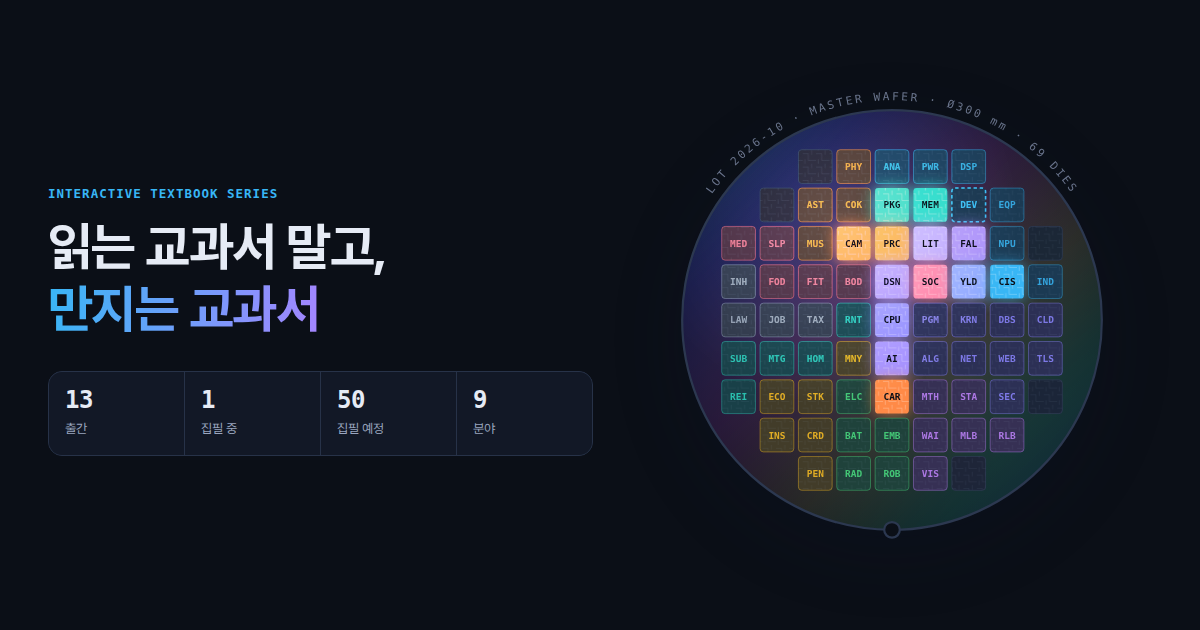
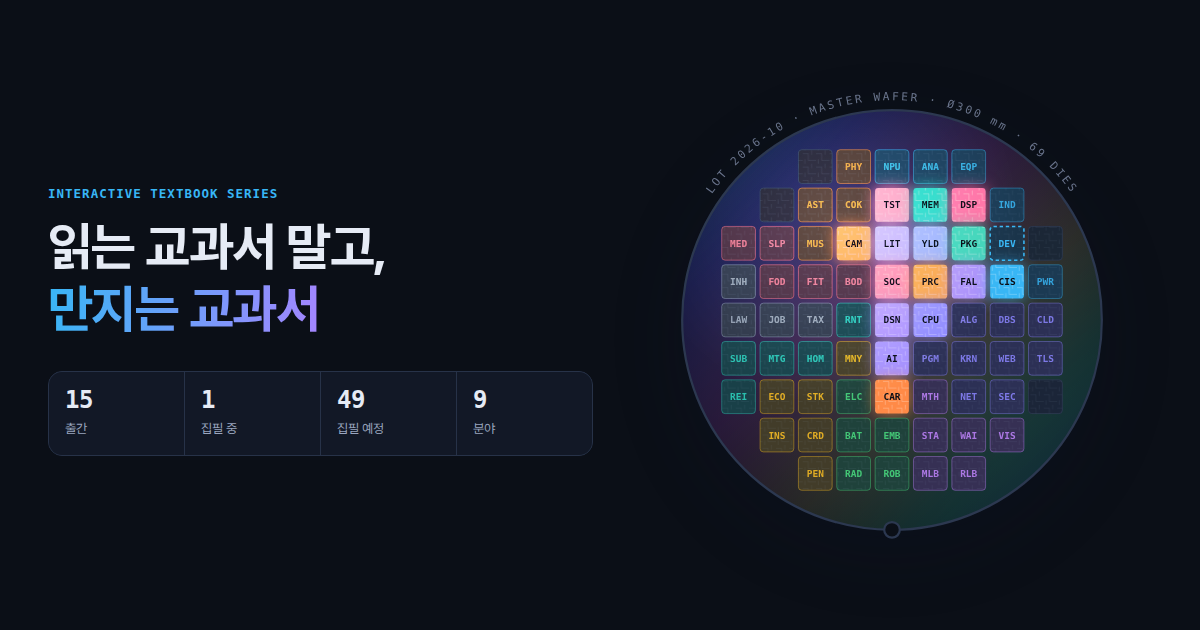
Publish DisplayBook and TestBook
- DisplayBook moves from planned to published (semiconductor products
  stage), featuring the OLED stack 3D model and the gamut triangle.
- TestBook (반도체 테스트) added to the packaging & test stage,
  featuring the vertical probe card 3D model and the shmoo plot.
- New cover motifs: subpixel, shmoo. Regenerated og.png.

Claude-Session: https://claude.ai/code/session_01FmDfRm9DF5RWtBmyFTpFBo

diff --git a/js/covers.js b/js/covers.js
@@ -144,6 +144,25 @@
       s += `<path class="cv-flow" d="M84 44 V56 H165 V62 M89 100 V112 H150" fill="none" stroke="#000" stroke-opacity=".45" stroke-width="2" stroke-dasharray="4 6"/>`;
       return svg(s);
     },
+    // 디스플레이: RGB 서브픽셀이 켜졌다 꺼진다
+    subpixel() {
+      const C = ["#ff7a8a", "#7deaa0", "#8ab4ff"]; let s = "";
+      range(4).forEach((j) => range(6).forEach((i) => range(3).forEach((k) => {
+        const x = 62 + i * 21 + k * 6.5, y = 10 + j * 28;
+        s += `<rect class="cv-pulse" style="animation-delay:${(((i + j) % 4) * 0.3 + k * 0.1).toFixed(2)}s" x="${x}" y="${y}" width="5" height="24" rx="1.5" fill="${C[k]}" fill-opacity=".85"/>`;
+      })));
+      return svg(s);
+    },
+    // 테스트: 셔무 플롯, 전압·주파수 격자에서 통과/불량 경계
+    shmoo() {
+      let s = "";
+      range(8).forEach((j) => range(10).forEach((i) => {
+        const pass = j >= 7 - Math.floor(i * 0.7) - 1 && i > 0;
+        s += `<rect x="${64 + i * 13}" y="${10 + j * 13.5}" width="11.5" height="12" rx="1.5" fill="${pass ? "#7deaa0" : "#ff7a8a"}" fill-opacity="${pass ? 0.8 : 0.55}"/>`;
+      }));
+      s += `<rect class="cv-pulse" x="128" y="51" width="38" height="54" rx="2" fill="none" stroke="${W}" stroke-width="2"/>`;
+      return svg(s);
+    },
     // 기본: 다이 격자
     grid() {
       let s = "";
